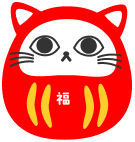
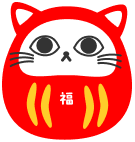
アニメーション追加

Changed region(s): [[0.4148, 0.6479, 0.563, 0.7606]]

diff --git a/css/style.css b/css/style.css
@@ -24,4 +24,38 @@ body {
     right: 90px;  
     bottom: 10px; 
     width: 180px; 
+
+    animation: yurayura 2s ease-in-out infinite;
+    transform-origin: bottom center;
+}
+
+@keyframes yurayura {
+    0% {
+        transform: rotate(0deg);
+    }
+
+    25% {
+        transform: rotate(-4deg);
+    }
+
+    50% {
+        transform: rotate(0deg);
+    }
+
+    75% {
+        transform: rotate(4deg);
+    }
+
+    100% {
+        transform: rotate(0deg);
+    }
+}
+
+.button_start img {
+    transition: 0.3s;
+    cursor: pointer;
+}
+
+.button_start img:hover {
+    transform: scale(1.05);
 }

diff --git a/index.html b/index.html
@@ -12,7 +12,6 @@
 </head>
 
 <body class="index">
-  <h1>おみくじアプリ</h1>
   <div class="main-visual">
     <img src="images/top/mainvijualu.png" alt="メインビジュアル">
   </div>
